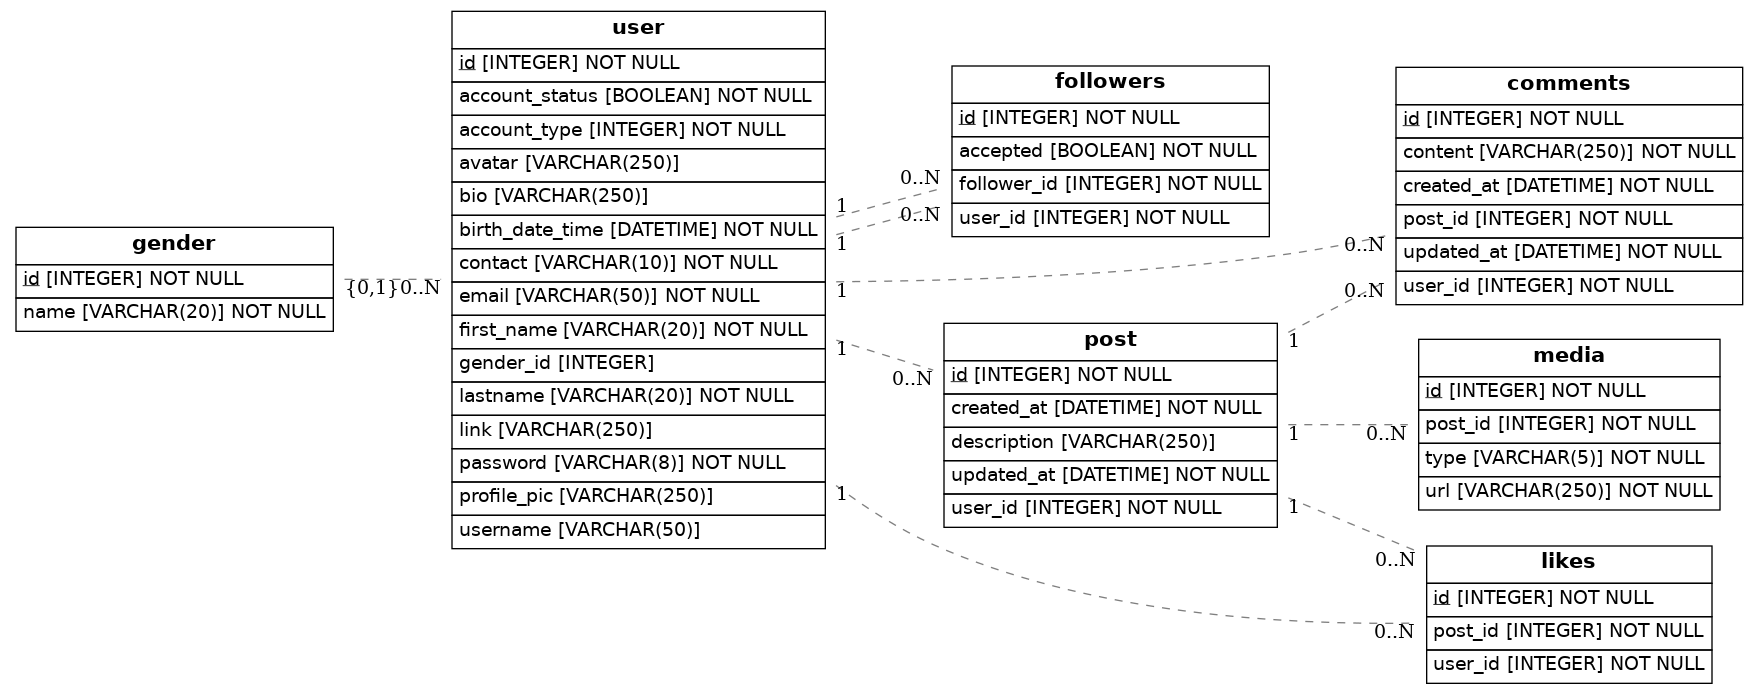
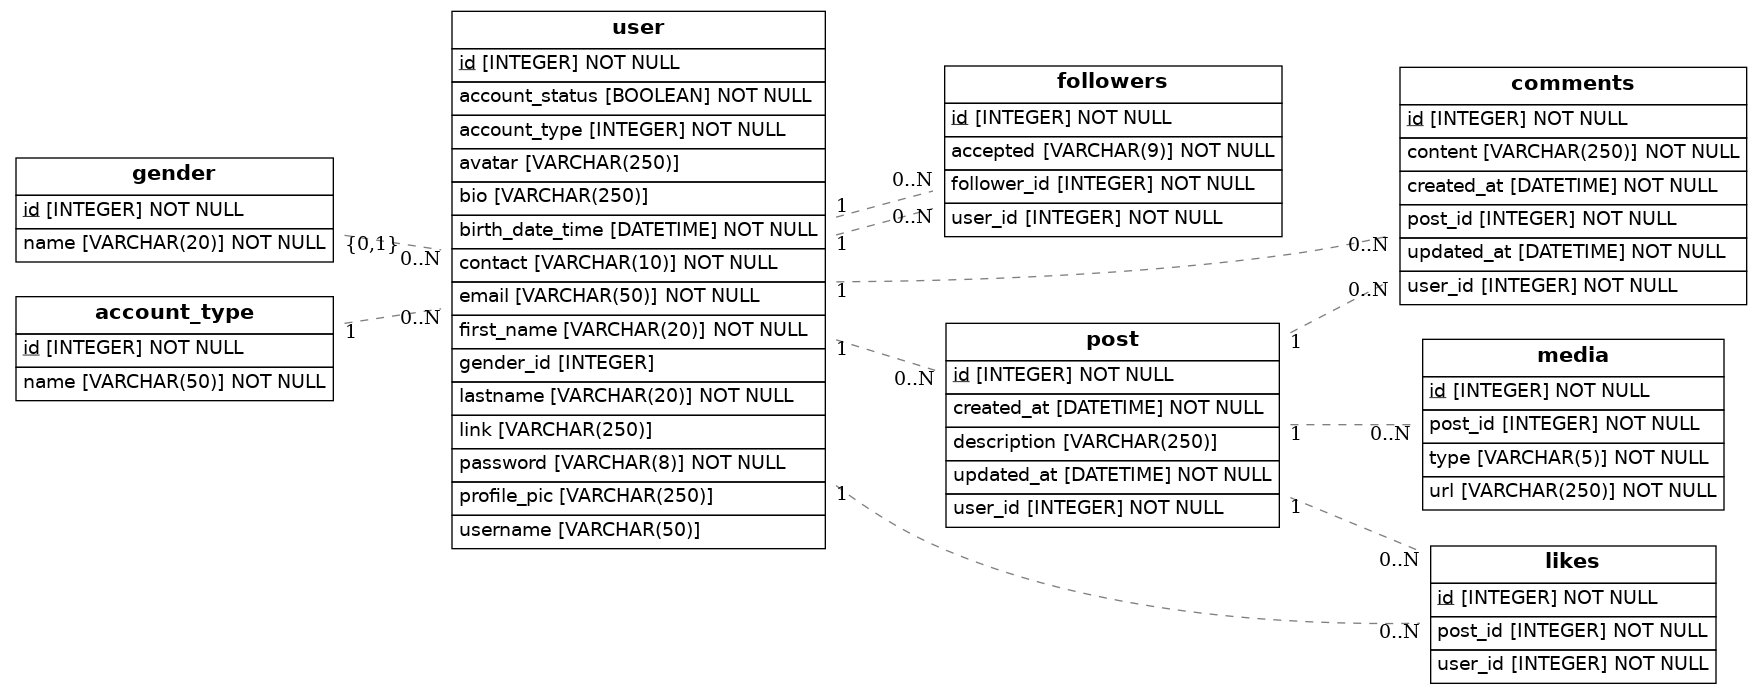
Addition of accepted in Followers

diff --git a/src/models.py b/src/models.py
@@ -34,17 +34,12 @@ class AccountType(Base):
     id = Column(Integer, primary_key=True, autoincrement=True)
     name = Column(String(50), nullable=False)
     
-class AcceptanceStatus(Enum):
-    ACEPTADO = "aceptado"
-    RECHAZADO = "rechazado"
-    PENDIENTE = "pendiente"
-
 class Followers(Base):
     __tablename__ = 'followers'
     id = Column(Integer, primary_key=True, autoincrement=True)
     follower_id = Column(Integer, ForeignKey('user.id'), nullable=False)
     user_id = Column(Integer, ForeignKey('user.id'), nullable=False)
-    accepted = Column(Enum(AcceptanceStatus), nullable=False)
+    accepted = Column(Enum('aceptado','rechazado', 'pendiente', name='acceptance_status'), nullable=False)
 
 class Post(Base):
     __tablename__='post'
